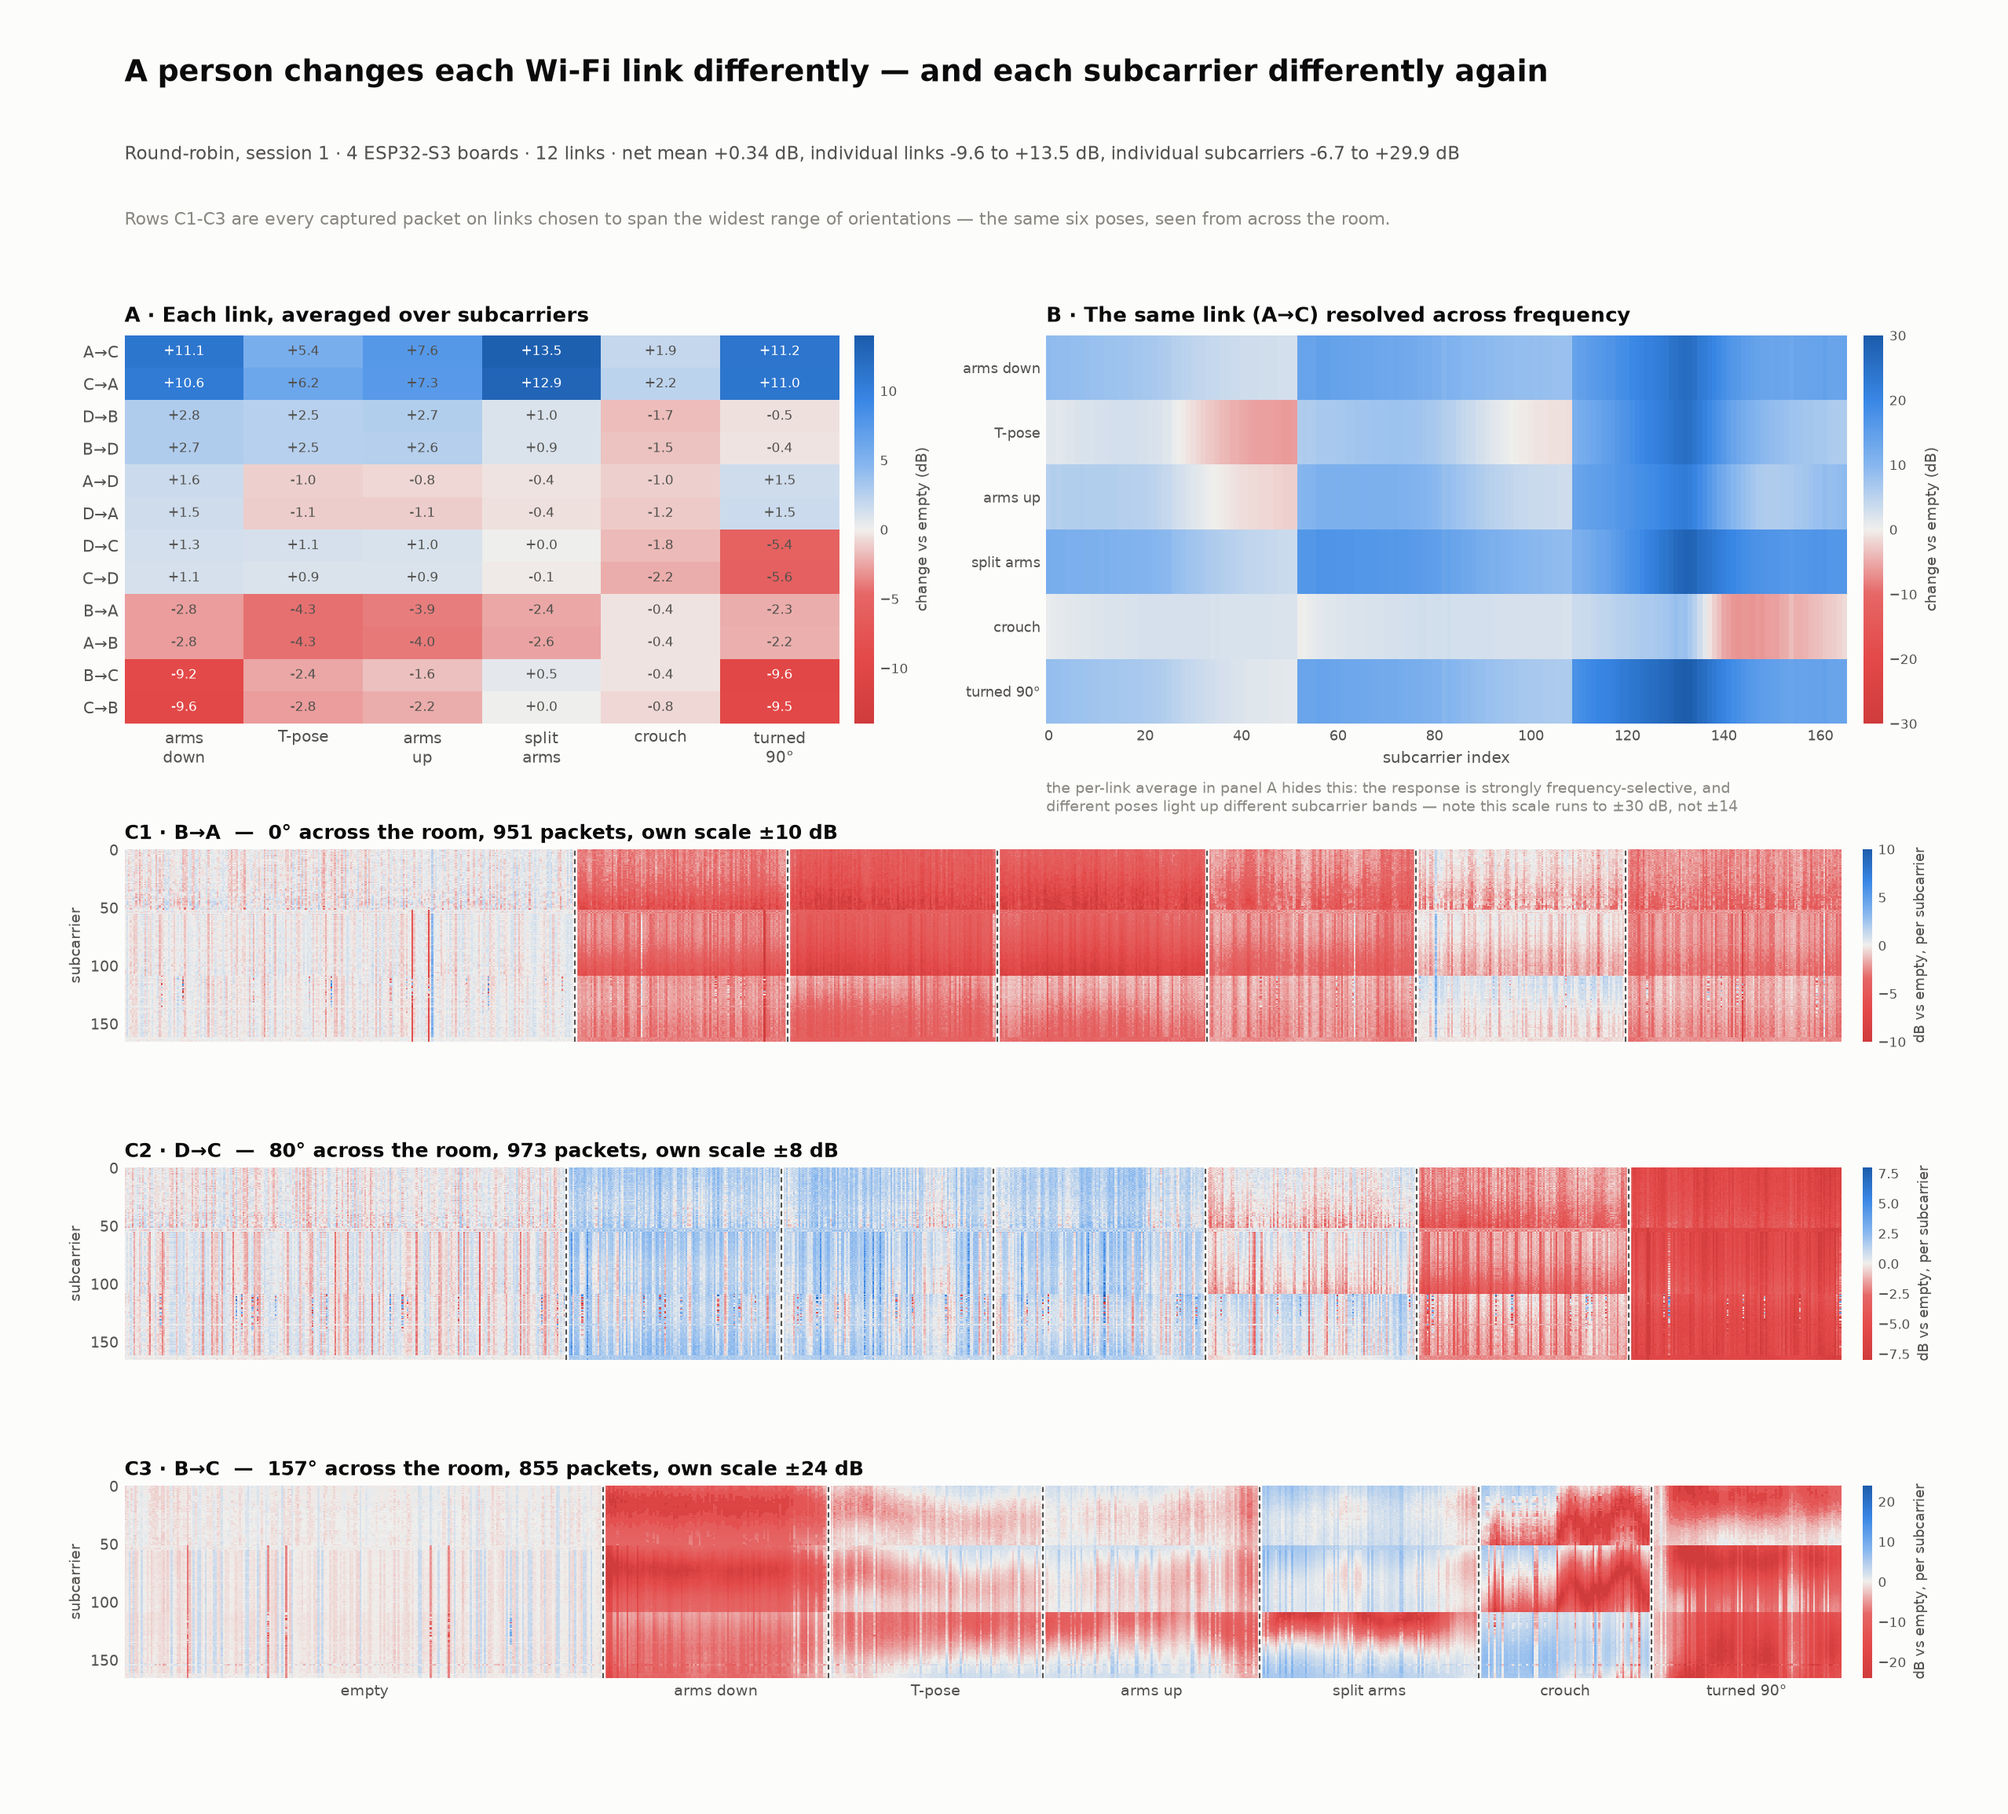
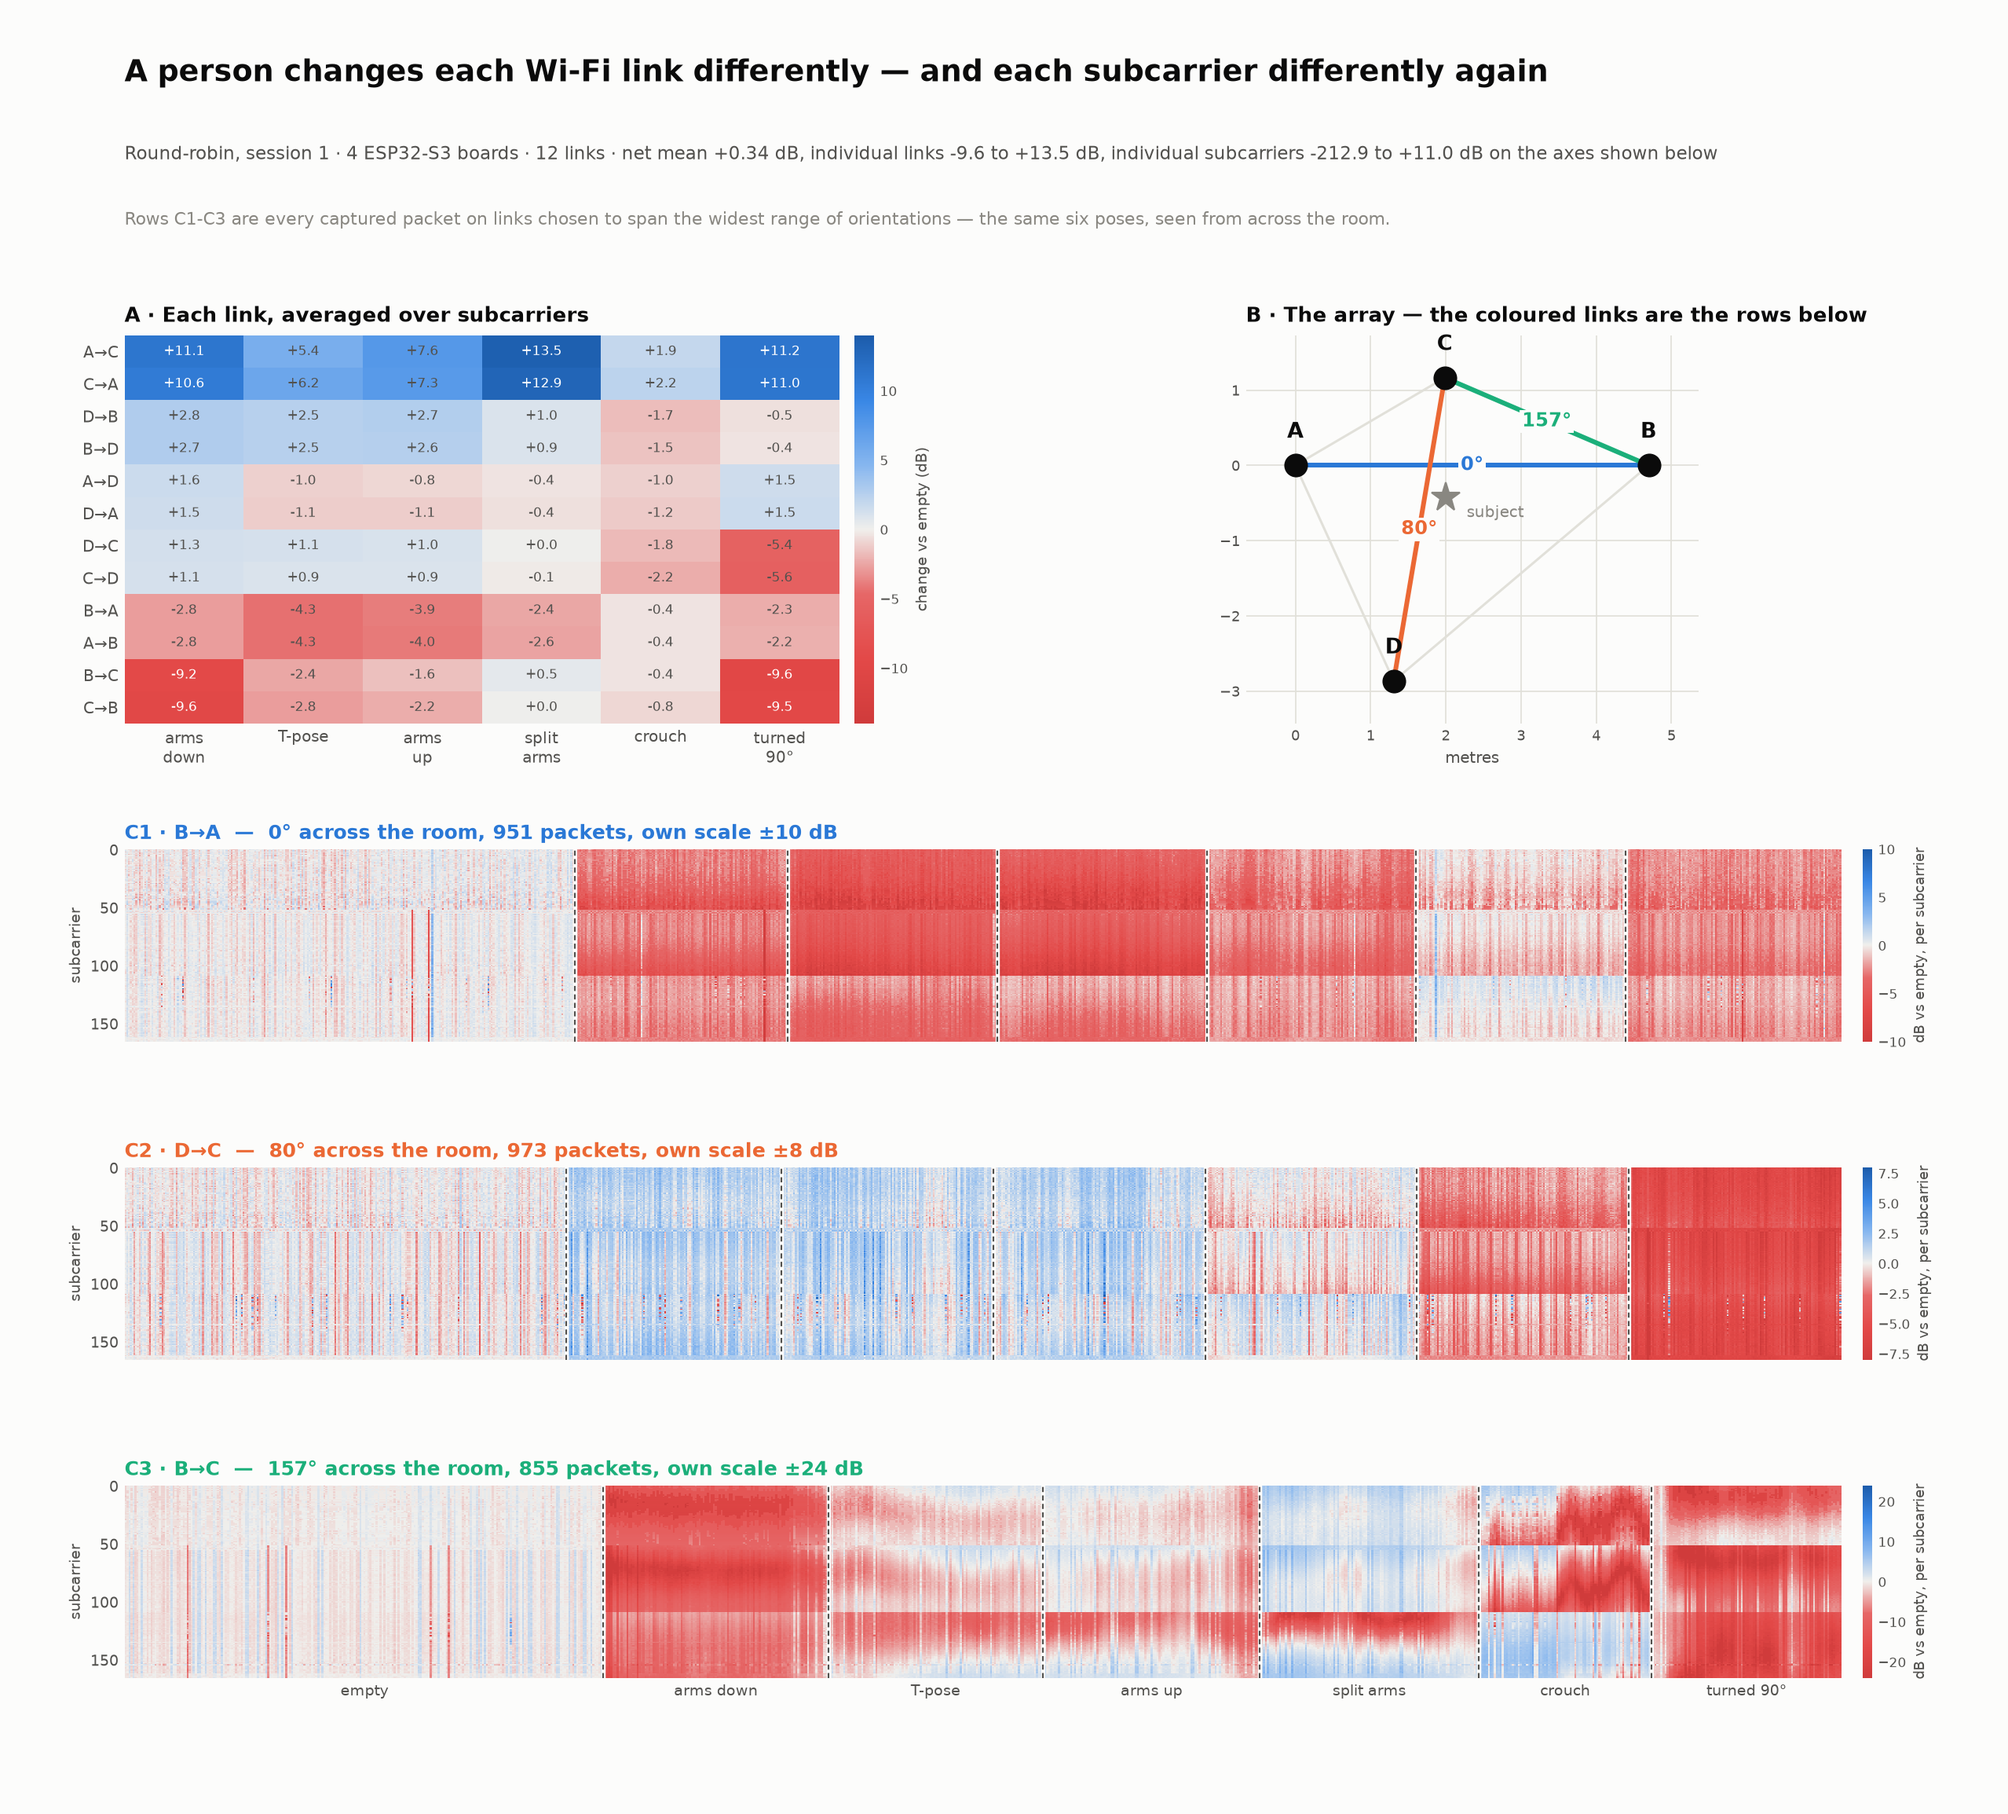
Detail figure: room geometry in place of the subcarrier panel
Panel B showed one link resolved across frequency, which largely duplicated the
per-axis waterfalls added below it. The array geometry is more useful in that
slot: the waterfalls are labelled by orientation, and the diagram is what makes
those angles mean anything. Each highlighted link is coloured to match its
waterfall title, so an axis in the room maps to a row in the figure.

Also drops a header statistic and a debug line that still described the panel
that was replaced.

diff --git a/esp-csi/examples/get-started/tools/plot_pose_detail.py b/esp-csi/examples/get-started/tools/plot_pose_detail.py
@@ -43,6 +43,7 @@ MUTED = '#898781'
 GRID = '#e1e0d9'
 DIVERGING = LinearSegmentedColormap.from_list('loss_gain', [
     '#d03b3b', '#e34948', '#e66767', '#f0efec', '#86b6ef', '#3987e5', '#1c5cab'])
+CAT = ['#2a78d6', '#eb6834', '#1baf7a']   # palette slots 1-3, ties an axis to its waterfall
 SEQ = LinearSegmentedColormap.from_list('amp', [
     '#f0efec', '#cde2fb', '#9ec5f4', '#6da7ec', '#3987e5', '#256abf', '#104281', '#0d366b'])
 
@@ -155,8 +156,7 @@ def main():
 
     lim = sym_limit(M)
     limS = sym_limit(S)
-    print(f'  panel A limit +/-{lim:.1f} dB, panel B limit +/-{limS:.1f} dB, '
-          f'S finite {np.isfinite(S).sum()}/{S.size}')
+    print(f'  link-average limit +/-{lim:.1f} dB')
 
     nw = len(waterfalls)
     fig = plt.figure(figsize=(16.5, 7.4 + 2.5 * nw), facecolor=SURFACE)
@@ -184,25 +184,43 @@ def main():
     cb.ax.tick_params(colors=INK_2, length=0, labelsize=8)
     cb.outline.set_visible(False)
 
-    # ================= panel B =================
-    ax2 = fig.add_subplot(gs[0, 1], facecolor=SURFACE)
-    im2 = ax2.imshow(S, cmap=DIVERGING, vmin=-limS, vmax=limS,
-                     aspect='auto', interpolation='nearest')
-    ax2.set_yticks(range(len(POSES)), SHORT, color=INK_2, fontsize=9.5)
-    ax2.set_xlabel('subcarrier index', color=INK_2, fontsize=9.5)
-    ax2.set_title(f'B · The same link ({key_name}) resolved across frequency',
+    # ================= panel B: the array =================
+    # The geometry earns this slot more than another subcarrier heatmap did: the
+    # waterfalls below are labelled by orientation, and this is what makes those
+    # angles mean something.
+    axg = fig.add_subplot(gs[0, 1], facecolor=SURFACE)
+    for i, a in enumerate('ABCD'):
+        for b in list('ABCD')[i + 1:]:
+            if a in COORDS and b in COORDS:
+                axg.plot(*zip(COORDS[a], COORDS[b]), color=GRID, lw=1.4, zorder=1)
+    for (W, _bounds, _lab, lname, ang), col in zip(waterfalls, CAT):
+        a, b = lname.split('→')
+        if a in COORDS and b in COORDS:
+            axg.plot(*zip(COORDS[a], COORDS[b]), color=col, lw=2.8, zorder=2)
+            mx = (COORDS[a][0] + COORDS[b][0]) / 2
+            my = (COORDS[a][1] + COORDS[b][1]) / 2
+            axg.text(mx, my, f'{ang:.0f}°', color=col, fontsize=11, fontweight='bold',
+                     ha='center', va='center',
+                     bbox=dict(fc=SURFACE, ec='none', pad=1.4), zorder=4)
+    cx = np.mean([c[0] for c in COORDS.values()])
+    cy = np.mean([c[1] for c in COORDS.values()])
+    axg.plot(cx, cy, marker='*', ms=18, color=MUTED, zorder=3)
+    axg.text(cx + 0.28, cy - 0.10, 'subject', color=MUTED, fontsize=9.5,
+             ha='left', va='top')
+    for k, (x, y) in COORDS.items():
+        axg.plot(x, y, 'o', ms=13, color=INK, zorder=5)
+        axg.text(x, y + 0.30, k, color=INK, fontsize=12.5, fontweight='bold',
+                 ha='center', va='bottom', zorder=5)
+    axg.set_aspect('equal')
+    axg.set_xlabel('metres', color=INK_2, fontsize=9.5)
+    axg.set_title('B · The array — the coloured links are the rows below',
                   color=INK, fontsize=12, pad=8, loc='left', fontweight='bold')
-    ax2.tick_params(colors=INK_2, length=0, labelsize=8.5)
-    for s in ax2.spines.values():
-        s.set_visible(False)
-    cb2 = fig.colorbar(im2, ax=ax2, fraction=0.04, pad=0.02)
-    cb2.set_label('change vs empty (dB)', color=INK_2, fontsize=9)
-    cb2.ax.tick_params(colors=INK_2, length=0, labelsize=8)
-    cb2.outline.set_visible(False)
-    ax2.text(0.0, -0.145, 'the per-link average in panel A hides this: the response is '
-                          'strongly frequency-selective, and\ndifferent poses light up different '
-                          f'subcarrier bands — note this scale runs to ±{limS:.0f} dB, not ±{lim:.0f}',
-             transform=ax2.transAxes, fontsize=9, color=MUTED, va='top')
+    axg.tick_params(colors=INK_2, labelsize=8.5, length=0)
+    for sp in axg.spines.values():
+        sp.set_visible(False)
+    axg.grid(color=GRID, lw=0.8)
+    axg.set_axisbelow(True)
+    axg.margins(0.14)
 
     # ================= panel C: one row per axis =================
     for r, (W, bounds, seg_lab, lname, ang) in enumerate(waterfalls):
@@ -221,7 +239,8 @@ def main():
         axr.set_ylabel('subcarrier', color=INK_2, fontsize=9)
         axr.set_title(f'C{r + 1} · {lname}  —  {ang:.0f}° across the room, '
                       f'{W.shape[1]} packets, own scale ±{limR:.0f} dB',
-                      color=INK, fontsize=11.5, pad=6, loc='left', fontweight='bold')
+                      color=CAT[r % len(CAT)], fontsize=11.5, pad=6, loc='left',
+                      fontweight='bold')
         axr.tick_params(colors=INK_2, length=0, labelsize=9)
         for sp in axr.spines.values():
             sp.set_visible(False)
@@ -236,7 +255,8 @@ def main():
     fig.text(0.062, 0.912,
              f'{args.title} · 4 ESP32-S3 boards · {len(lks)} links · net mean {net:+.2f} dB, '
              f'individual links {np.nanmin(M):+.1f} to {np.nanmax(M):+.1f} dB, '
-             f'individual subcarriers {np.nanmin(S):+.1f} to {np.nanmax(S):+.1f} dB',
+             f'individual subcarriers {min(np.nanmin(W) for W, *_ in waterfalls):+.1f} to '
+             f'{max(np.nanmax(W) for W, *_ in waterfalls):+.1f} dB on the axes shown below',
              fontsize=10.5, color=INK_2)
     fig.text(0.062, 0.876,
              'Rows C1-C' + str(len(waterfalls)) + ' are every captured packet on links chosen to span the '
